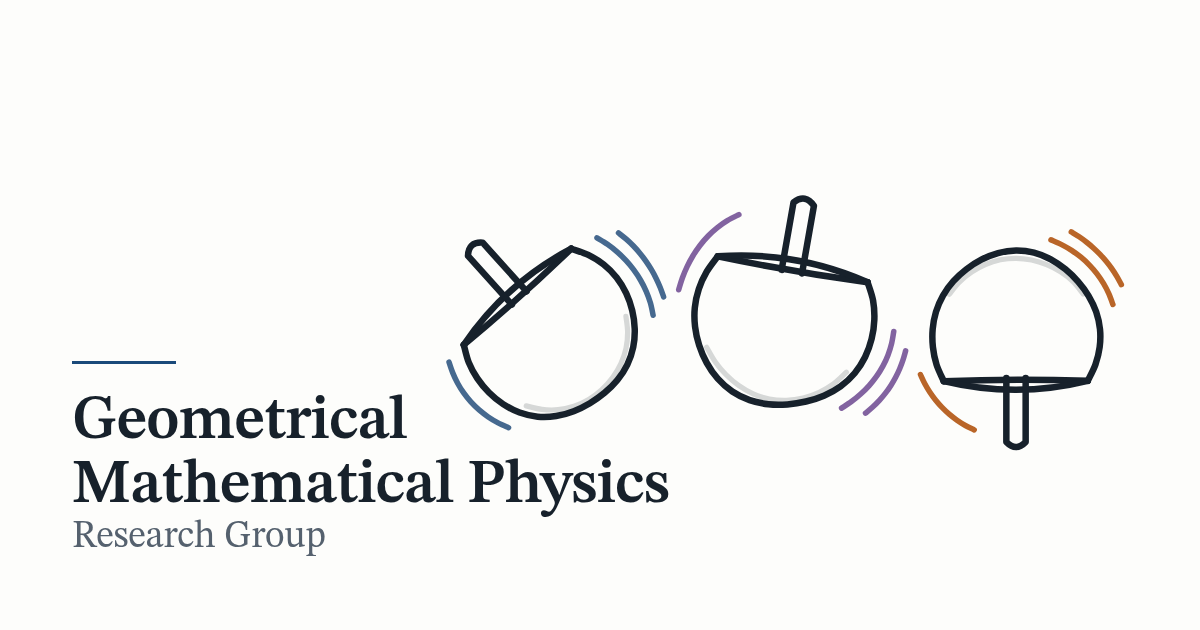
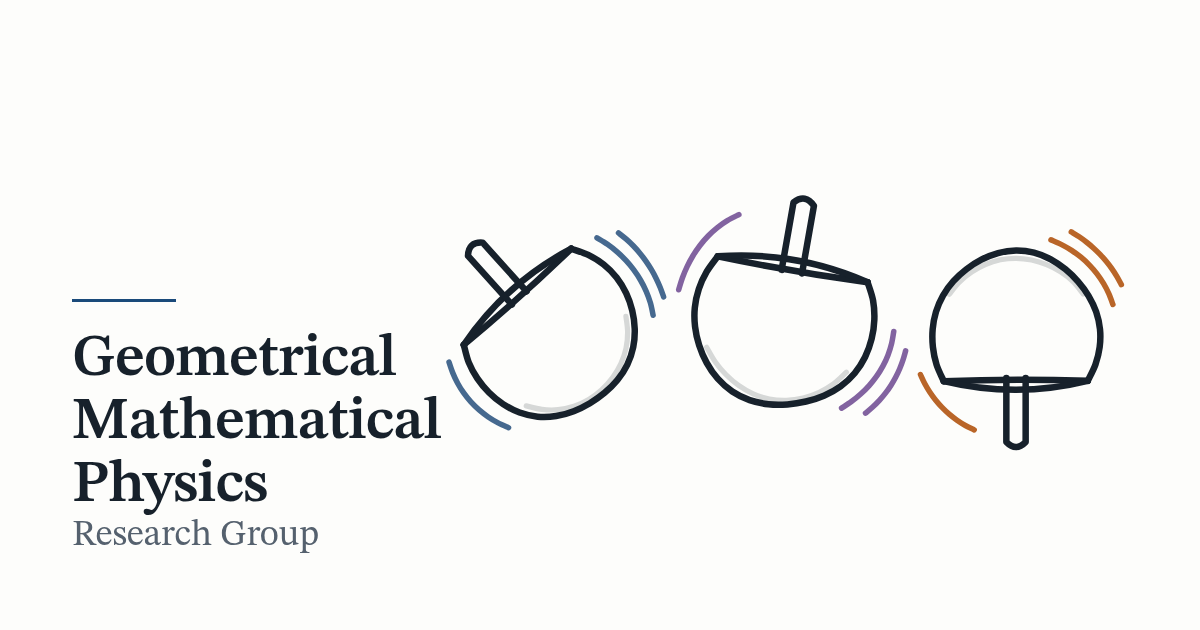
Land the designer's artwork and retire the last raster asset
Thirteen SVGs from the design handoff, taken from its byte-clean copies: the
four discipline icons and the emblem redrawn, a header mark, two wordmark
variants, three utility marks, the Open Graph artwork, and figure-euler-top —
energy level sets of the free rigid body on the angular-momentum sphere, which
is the canonical picture for a spinning top's dynamics.

The handoff's own .svg files each carry ~7.8 KB of C2PA provenance XML because
the authoring tool re-stamps every SVG on write; the clean-svg copies do not.
All thirteen validate: viewBox set, no width/height, stroke="currentColor", no
text, gradients, filters or masks.

The header now inlines logo-tops.svg at 132px (112px on a phone) in place of
geommphys-horizontal.png. Inlining matters: CSS cannot reach inside an <img>,
so an inlined mark inherits currentColor and needs neither a per-theme copy nor
a filter. .brand states color: var(--ink) explicitly, because the header row
sets --ink-soft for the navigation and the mark would otherwise come out
nav-grey.

The raster file itself is kept for now — the encrypted members pages were
generated against the previous theme and may still reference it.

Note for review: the specified header mark carries no lettering, so the group
name no longer appears in the header. That is the designer's intent, and the
home page's title block carries the name, but it is an information change rather
than only a visual one.

diff --git a/_includes/header.html b/_includes/header.html
@@ -3,7 +3,14 @@
   <div class="container site-header__inner">
     {% unless page.layout == 'home' %}
       <a class="brand" href="{{ '/' | relative_url }}" aria-label="{{ site.data.site.group_name }} home">
-        <img class="brand__logo" src="{{ '/assets/images/logos/geommphys-horizontal.png' | relative_url }}" width="1000" height="427" alt="">
+        {%- comment -%}
+          Inlined, not an <img>: CSS cannot reach inside an <img>, and inlining
+          lets the drawing's strokes inherit currentColor, so it needs no
+          per-theme copy and no filter. .brand sets its own colour because the
+          header row sets --ink-soft for the navigation, which the mark would
+          otherwise inherit.
+        {%- endcomment -%}
+        <span class="brand__mark">{% include icons/logo-tops.svg %}</span>
       </a>
     {% endunless %}
     {% if page.section == "Private" %}
